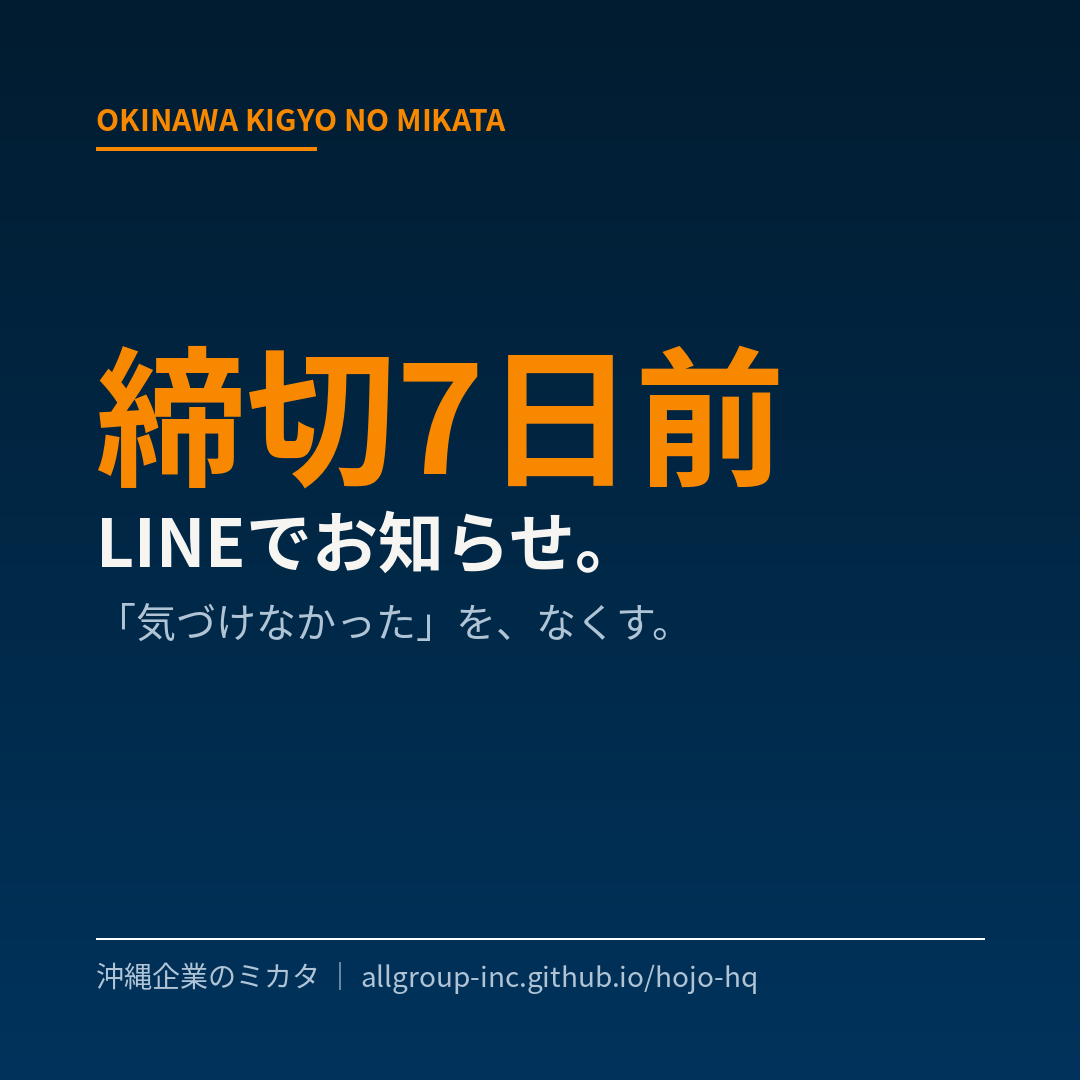
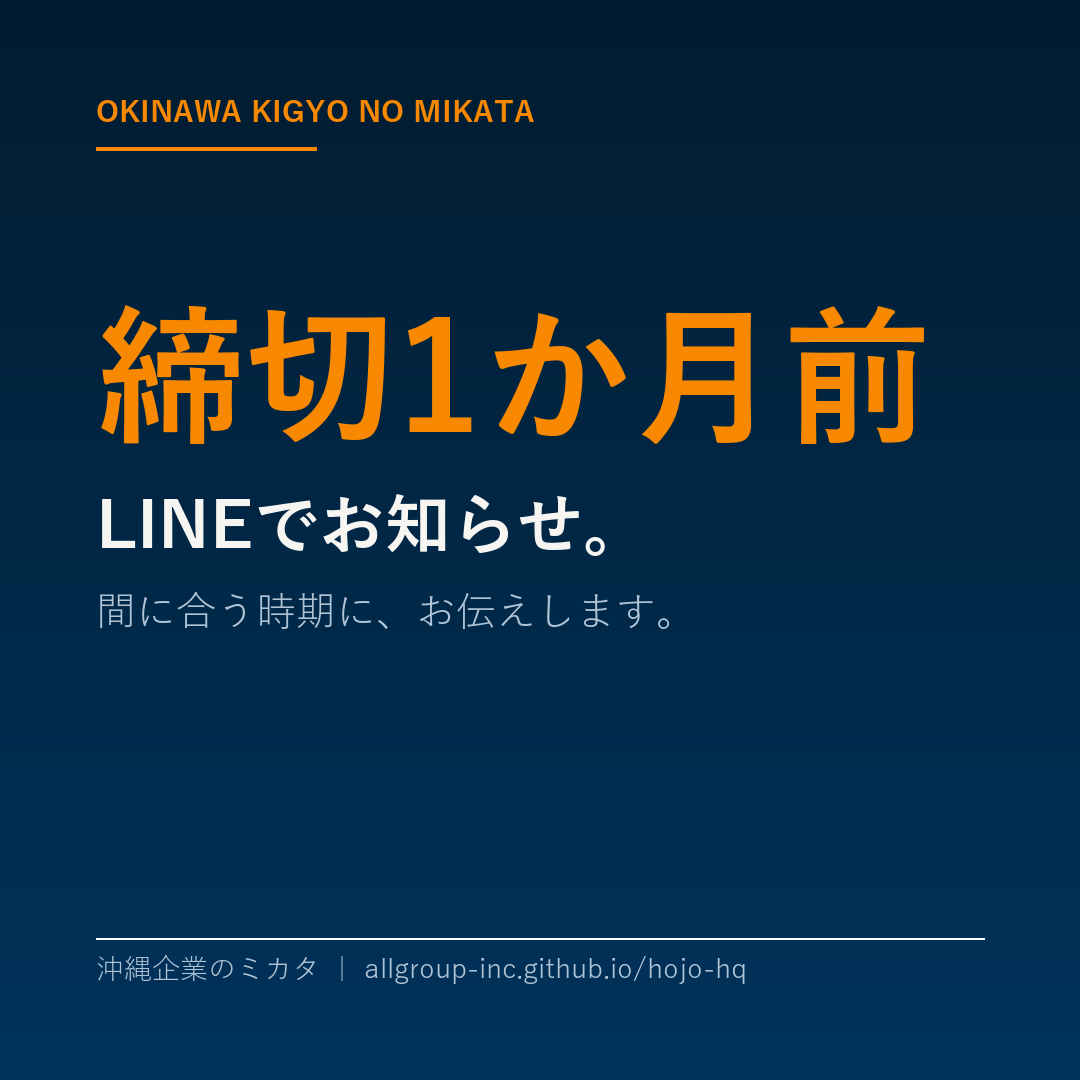
fix(copy): 締切アラートを「7日前」→「約1か月前から」に統一(3層ルールへ整合)
利用者からの指摘: 7日前では申請が間に合わないため、その表現はやめたはず。
台帳の締切3層ルール(SNS=30日以上/LINE個別=7〜29日/7日未満=次回予告)を確認したところ、
投稿の選定ロジックは正しく実装済みだが、利用者向け文言だけが「7日前」のまま残っていた。

修正(計9箇所):
- サイト6箇所(meta説明/OGP/仕組み欄/結果画面/CTA/ぼかし解除文)
- SNS投稿1・8(投稿8は「7日前では間に合わない」を訴求に転換)
- LINEあいさつメッセージ

gBizIDは郵送だと審査に最大1か月かかるため、7日前の通知は実務上機能しない。
CLAUDE.mdに3層ルールと「7日前は誤り」を明記し、再発を防止。

diff --git a/site/index.html b/site/index.html
@@ -4,12 +4,12 @@
 <meta charset="UTF-8">
 <meta name="viewport" content="width=device-width, initial-scale=1.0">
 <title>沖縄企業のミカタ|沖縄で使える補助金・助成金を毎日更新</title>
-<meta name="description" content="沖縄の事業者向けに、国・県・市町村の補助金・助成金情報を毎日自動更新。無料の診断で貴社が使える制度をチェック。締切7日前のLINEアラート付き。運営:株式会社GLOW">
+<meta name="description" content="沖縄の事業者向けに、国・県・市町村の補助金・助成金情報を毎日自動更新。無料の診断で貴社が使える制度をチェック。締切の約1か月前からLINEアラート。運営:株式会社GLOW">
 <meta name="theme-color" content="#00335c">
 <link rel="canonical" href="https://allgroup-inc.github.io/hojo-hq/">
 <meta property="og:type" content="website">
 <meta property="og:title" content="沖縄企業のミカタ|沖縄で使える補助金・助成金を毎日更新">
-<meta property="og:description" content="沖縄の事業者向けに補助金・助成金情報を毎日自動更新。無料診断と締切7日前LINEアラート。">
+<meta property="og:description" content="沖縄の事業者向けに補助金・助成金情報を毎日自動更新。無料診断と、締切の約1か月前からのLINEアラート。">
 <meta property="og:url" content="https://allgroup-inc.github.io/hojo-hq/">
 <meta property="og:image" content="https://allgroup-inc.github.io/hojo-hq/assets/photos/hero.jpg">
 <link rel="icon" type="image/png" href="assets/glow-logo.png">
@@ -458,7 +458,7 @@
   <div class="how-list">
     <div class="how-item rv"><h3><span>壱</span>GLOWが毎日、国と沖縄の公募をチェック</h3><p>jGrantsや県・市町村サイトを毎日確認。見落としがちな更新も漏らしません。</p></div>
     <div class="how-item rv"><h3><span>弐</span>締切・金額・対象を、原文照合で正確に</h3><p>すべての情報は公式ページと突き合わせて掲載。あいまいなものは「要確認」と正直に表示します。</p></div>
-    <div class="how-item rv"><h3><span>参</span>締切7日前、LINEにアラート</h3><p>気になる制度を登録すれば、申し込み忘れをゼロに。相談したい時は専門家におつなぎします。</p></div>
+    <div class="how-item rv"><h3><span>参</span>間に合う時期に、LINEでお知らせ</h3><p>締切の約1か月前からお知らせします。書類やgBizIDの準備が間に合う時期にお伝えするのが、私たちの役目です。</p></div>
   </div>
 </section>
 
@@ -531,7 +531,7 @@
       <a href="https://line.me/R/oaMessage/%40345pqedv/?%E3%80%90%E4%BA%8B%E6%A5%AD%E6%89%BF%E7%B6%99%E7%9B%B8%E8%AB%87%E3%80%91" target="_blank" rel="noopener" class="shokei-link">引き継ぎの無料相談はこちら</a>
     </div>
     <div id="result-list"></div>
-    <p class="result-note">締切7日前アラートを受け取るには、LINE登録(無料)をどうぞ。</p>
+    <p class="result-note">締切アラート(約1か月前から)を受け取るには、LINE登録(無料)をどうぞ。</p>
     <a class="register-btn" href="https://line.me/R/oaMessage/%40345pqedv/?%E3%80%90%E4%BC%9A%E7%A4%BE%E6%83%85%E5%A0%B1%E7%99%BB%E9%8C%B2%E3%80%91%0A%E4%BC%9A%E7%A4%BE%E5%90%8D%EF%BC%9A%0A%E4%BB%A3%E8%A1%A8%E8%80%85%E5%90%8D%EF%BC%9A%0A%E6%89%80%E5%9C%A8%E5%9C%B0%EF%BC%9A" target="_blank" rel="noopener">貴社専用の制度通知を受け取る(会社情報を登録)</a>
 
     <details class="gbiz" id="gbiz">
@@ -597,7 +597,7 @@
 <section class="cta">
   <p class="eyebrow rv">START FREE</p>
   <h2 class="rv">この島の可能性を、<br><span class="kin">いっしょに起こそう。</span></h2>
-  <p class="sub rv" style="text-align:center;max-width:none;">気になる公募は、締切7日前にLINEでお知らせします。</p>
+  <p class="sub rv" style="text-align:center;max-width:none;">気になる公募は、締切の約1か月前からLINEでお知らせします。</p>
   <a class="line-btn rv" href="https://lin.ee/sh4bTUe" target="_blank" rel="noopener">LINEで無料登録する</a>
   <p class="cta-note rv">登録は10秒。いつでも解除できます。</p>
 </section>
@@ -744,7 +744,7 @@
       if(hits.length>1){
         html+=hits.slice(1).map(it=>card(it,true)).join('');
         html+=`<div class="unlock">
-          <p><strong>残り${hits.length-1}件</strong>は、無料のLINE登録ですべて表示されます。<br>締切7日前アラートも自動で届きます。</p>
+          <p><strong>残り${hits.length-1}件</strong>は、無料のLINE登録ですべて表示されます。<br>締切の約1か月前からアラートも自動で届きます。</p>
           <a class="line-btn" href="https://lin.ee/sh4bTUe" target="_blank" rel="noopener">LINEで無料登録して全て見る</a>
         </div>`;
       }

diff --git a/scripts/generate_sns.py b/scripts/generate_sns.py
@@ -214,7 +214,7 @@ def main():
             "🌺 沖縄の事業者向けに、国・県・関係機関の補助金・助成金情報を"
             "まとめて毎日更新する無料サイト「沖縄企業のミカタ」を公開しました。\n\n"
             "「知らなかった」で機会を逃さないために。\n"
-            "📌 気になる制度は、締切7日前にLINEでお知らせします。\n"
+            "📌 気になる制度は、締切の約1か月前からLINEでお知らせします。\n"
             f"まずは無料のLINE登録から👇\n{SITE_URL}"
         ),
         source=SITE_URL,
@@ -293,16 +293,19 @@ def main():
         source=SITE_URL,
     ))
 
-    # 8) 締切7日前アラート
+    # 8) 締切アラート(締切3層ルール: LINE個別アラートは残り7〜29日の窓で出す。
+    #    「7日前」は書類・gBizIDの準備が間に合わないため使わない)
     made.append(write_post(
         8, "deadline_alert", "締切アラート特典",
         img_title="LINEでお知らせ。",
-        img_sub="「気づけなかった」を、なくす。",
-        img_number="締切7日前",
+        img_sub="間に合う時期に、お伝えします。",
+        img_number="締切1か月前",
         caption=(
             "⏰ 補助金・助成金は、締切を過ぎると申請できません。\n"
-            "LINE登録で、気になる制度の締切7日前にリマインドをお届けします。（無料）\n"
-            "準備の時間を、少しでも多く。"
+            "しかも申請には事業計画書や、国の電子申請で使うGビズIDの準備が要ることも。"
+            "7日前に知っても、間に合わないことがあります。\n"
+            "だからLINE登録で、気になる制度の締切の約1か月前からお知らせします。（無料）\n"
+            "「知っていれば間に合った」を、なくすために。"
         ),
         source=SITE_URL,
     ))

diff --git a/posts/launch/08_deadline_alert.md b/posts/launch/08_deadline_alert.md
@@ -2,13 +2,14 @@
 
 ## 画像に載せる文言
 - タイトル: LINEでお知らせ。
-- サブ: 「気づけなかった」を、なくす。
-- 数字: 締切7日前
+- サブ: 間に合う時期に、お伝えします。
+- 数字: 締切1か月前
 
 ## キャプション
 ⏰ 補助金・助成金は、締切を過ぎると申請できません。
-LINE登録で、気になる制度の締切7日前にリマインドをお届けします。（無料）
-準備の時間を、少しでも多く。
+しかも申請には事業計画書や、国の電子申請で使うGビズIDの準備が要ることも。7日前に知っても、間に合わないことがあります。
+だからLINE登録で、気になる制度の締切の約1か月前からお知らせします。（無料）
+「知っていれば間に合った」を、なくすために。
 
 #沖縄 #補助金 #助成金 #沖縄経営者 #事業承継 #沖縄企業のミカタ
 

diff --git a/docs/LINEあいさつメッセージ.md b/docs/LINEあいさつメッセージ.md
@@ -11,8 +11,9 @@
 🌺 友だち追加ありがとうございます！
 「沖縄企業のミカタ」は、沖縄の事業者向けに補助金・助成金情報を毎日お届けする無料サービスです。
 
-✅ 締切7日前アラート
-気になる制度の締切を、7日前にお知らせします。
+✅ 締切アラート(間に合う時期にお知らせ)
+気になる制度の締切を、約1か月前からお知らせします。
+書類やgBizIDの準備が要ることもあるため、早めにお伝えします。
 
 🏢 貴社専用の制度通知を受け取るには
 下のメニューから、またはこのまま

diff --git a/CLAUDE.md b/CLAUDE.md
@@ -3,7 +3,9 @@
 ## 事業概要
 沖縄県特化の助成金・補助金 自動収集/開示サイト。
 国API(jGrants)+県・市町村サイトを毎日巡回し、Claude APIで構造化 → GitHub Pagesで公開。
-CVはLINE登録の1点のみ(締切7日前アラートが登録特典)。
+CVはLINE登録の1点のみ(締切アラートが登録特典)。
+アラートは締切3層ルールに従う: SNS投稿=残り30日以上のみ / 7〜29日=LINE個別アラート / 7日未満=次回公募予告(gBizID啓発)。
+**「締切7日前アラート」は誤り**(7日前では書類やgBizIDの準備が間に合わない)。利用者向けの表現は「締切の約1か月前から」で統一する。
 
 ## 位置づけ(重要)
 本サイトは単体収益事業ではなく、ALLGROUPグループの **経営者リード獲得装置**。

diff --git a/posts/launch/01_launch.md b/posts/launch/01_launch.md
@@ -9,7 +9,7 @@
 🌺 沖縄の事業者向けに、国・県・関係機関の補助金・助成金情報をまとめて毎日更新する無料サイト「沖縄企業のミカタ」を公開しました。
 
 「知らなかった」で機会を逃さないために。
-📌 気になる制度は、締切7日前にLINEでお知らせします。
+📌 気になる制度は、締切の約1か月前からLINEでお知らせします。
 まずは無料のLINE登録から👇
 https://allgroup-inc.github.io/hojo-hq/?utm_source=instagram&utm_medium=social&utm_campaign=launch
 